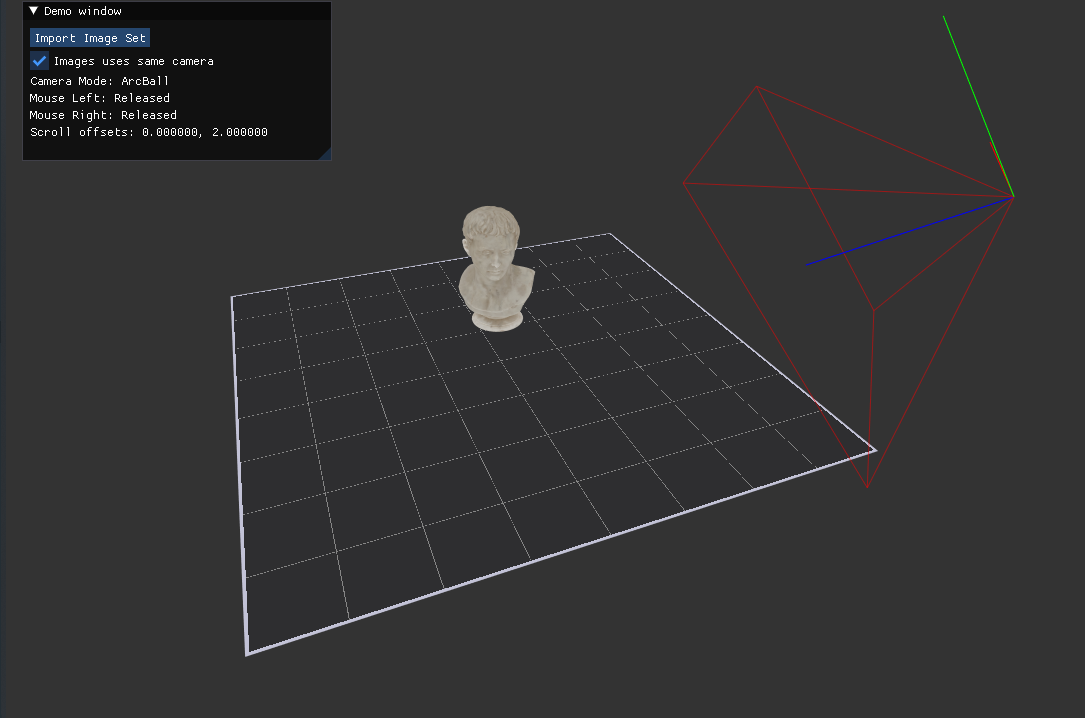
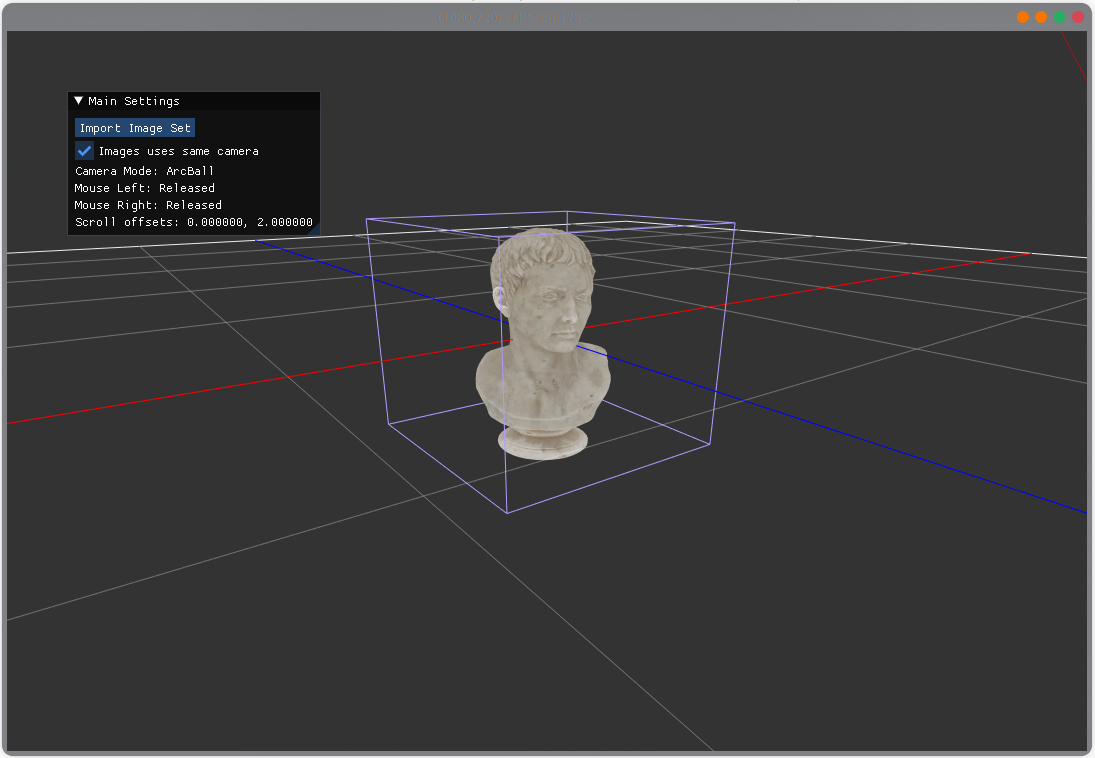
Update movement speed and readme picture.

diff --git a/src/model/Camera.cpp b/src/model/Camera.cpp
@@ -151,8 +151,8 @@ void Camera::ComputeMatricesFromInputs()
         if (m_sceneSettings->GetShiftKey())
         {
 
-            float deltaX = 8.0f / m_sceneSettings->GetViewportWidth();
-            float deltaY = 8.0f / m_sceneSettings->GetViewportHeight();
+            float deltaX = 4.0f / m_sceneSettings->GetViewportWidth();
+            float deltaY = 4.0f / m_sceneSettings->GetViewportHeight();
 
             float xDisplacement = (m_previousCursorPos.x - xpos) * deltaX;
             float yDisplacement = (m_previousCursorPos.y - ypos) * deltaY;
